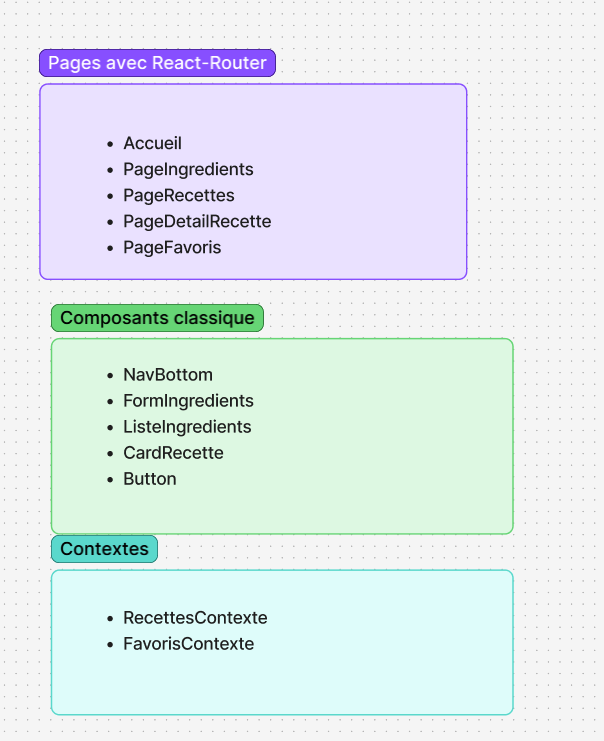
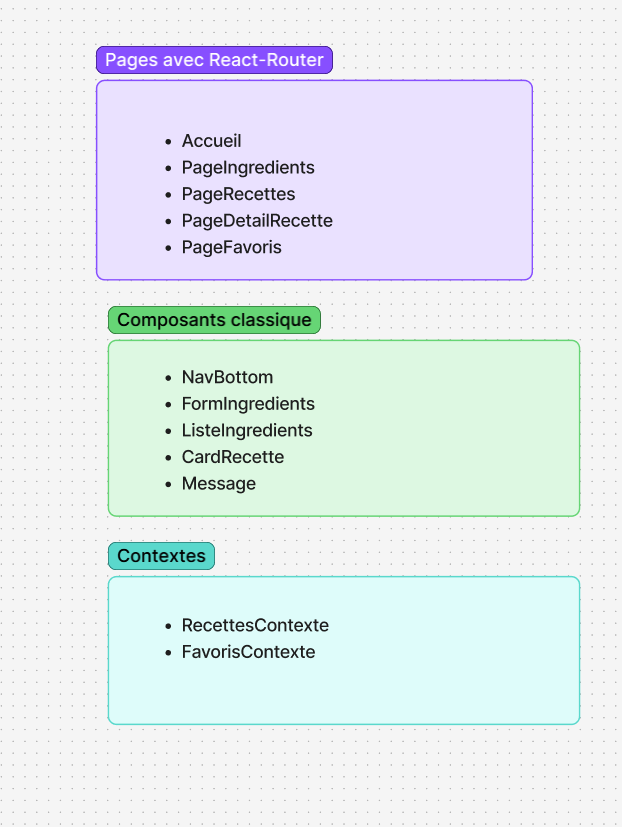
Suppression du composant bouton et ajout du composant message. Création et test ok pour le formulaire et l'ajout à la liste des ingredients

diff --git a/src/components/contexts/RecettesContext.jsx b/src/components/contexts/RecettesContext.jsx
@@ -2,12 +2,14 @@ import { createContext, useState, useEffect, useContext } from "react";
 
 export const RecettesContext = createContext();
 //Composant context gérant les données et la logique liée aux recette. 
-//Le provider contient :  le state qui passera les données du fetch du JSON,
+//Le provider contient :  le state qui passera les données du fetch du JSON, la fonction pour ajouter un ingredient à la liste et une autre pour supprimer 
 
 export default function RecettesProvider({children}){
 
     //Le state pour la liste des recettes
     const [recettes, setRecettes]= useState([]);
+    //celui pour les ingrédient du frigo ajoutés qui serviront à la recherche
+    const [ingredientsFrigo, setIngredientsFrigo] = useState([]);
     
     //hook useEffect avec dépendance vide pour qu'il ne soit utilisé qu'une fois lors du montage (sauf en dev)
     useEffect(()=>{
@@ -15,7 +17,6 @@ export default function RecettesProvider({children}){
         .then(rep=>{return rep.json()})
         .then(recettes=>{
             console.log(recettes);
-            //utilisation du setters pour l'enregistrer dans le state
             setRecettes(recettes);
         })
         .catch(error=>{
@@ -23,15 +24,24 @@ export default function RecettesProvider({children}){
         })
     },[]);
 
+    
+    function ajouterIngredient(ingredient){
+        //ajouter un ingredient à la liste ingredientsFrigo(un ajout possible par ingredient)
+        //param : l'ingredient à ajouter
+        if(!ingredientsFrigo.includes(ingredient)){
+            setIngredientsFrigo([...ingredientsFrigo,ingredient]);
+        }
+    }
+
 
     return(
-        <RecettesContext.Provider value={{recettes}}>
+        <RecettesContext.Provider value={{recettes,ingredientsFrigo, ajouterIngredient}}>
             {children}
         </RecettesContext.Provider>
     )
 };
 
-//hook perso
+//hook perso à transmettre aux composant qui en ont besoin
 export function useRecettes(){
     return useContext(RecettesContext);
 }

diff --git a/src/components/FormIngredients.jsx b/src/components/FormIngredients.jsx
@@ -1,0 +1,45 @@
+import { useState } from "react"
+import { useRecettes } from "./contexts/RecettesContext";
+import Message from "./Message";
+
+export default function FormIngredients(){
+    //Composant contenant le formulaire permettant à l’user d’ajouter un ingrédient présent dans son frigo. L’ingrédient ajouté sera ensuite enregistré dans la liste des ingrédients recherchés
+
+
+    //state de l'ingredient à ajouter
+    const [ingredient, setIngredient] = useState("");
+    //import des values nécessaires depuis le hook Recette
+    const {ingredientsFrigo,ajouterIngredient} =useRecettes();
+    //states nécessaires pour les props de message
+    const [msg, setMsg]= useState("");
+    const [typeMsg, setTypemsg] = useState("");
+
+    
+    function lockSubmit(e){
+        //fonction qui bloque l'envoi du formulaire, l'ajoute l'ingredient à la liste et reset le state d'ingredient
+        //paramétre : l'evenement déclenché par l'écouteur
+        e.preventDefault()
+        //Verif si ingredient déjà ajouté
+        if(ingredientsFrigo.includes(ingredient)){
+            setMsg("l'ingredient :"+ ingredient+" est déjà dans la liste")
+            setTypemsg("echec");
+            return;
+        }
+        ajouterIngredient(ingredient);
+        setMsg("L'ingredient :" +ingredient+ " a été ajouté à la liste")
+        setTypemsg("ok");
+        setIngredient("");
+        
+    }
+    return(
+        <div className="add-ingredients">
+            {msg && (
+                <Message type={typeMsg} msg={msg}/>
+            )}
+            <form action="" onSubmit={lockSubmit}>
+                <input type="text" name="ingredients" id="ingredient" onChange={(e)=>setIngredient(e.target.value)} value={ingredient} placeholder="Un seul ajout par ingredient" />
+                <button type="submit">Ajouter l'ingredient</button>
+            </form>
+        </div>
+    )
+}

diff --git a/src/components/pages/PageRecettes.jsx b/src/components/pages/PageRecettes.jsx
@@ -1,12 +1,29 @@
+import { useRecettes } from "../contexts/RecettesContext";
 import NavBottom from "../NavBottom";
 
 export default function PageRecettes(){
     //Composant retournant la page des recettes trouvées via la recherche filtrée par les ingrédients ajoutés par l'user
     //Utilise le composant CardRecette et NavBottom
 
+    const {recettes} = useRecettes();
+    
     return(
         <div className="recettes-page">
-            <p>test routage vers la page Recettes</p>
+            {recettes.map((recette)=>{
+                return(
+                    <div key={recette.id}>
+                        <p>{recette.nom}</p>
+                        {recette.ingredients.map((ingredient)=>{
+                            return(
+                                <p key={ingredient.nom}>
+                                    {ingredient.illustration}
+                                </p>
+                            )
+                        })}
+                    </div>
+                    
+                )
+            })}
             <NavBottom/>
         </div>
     )

diff --git a/src/components/pages/Accueil.jsx b/src/components/pages/Accueil.jsx
@@ -2,7 +2,7 @@ import { Link } from "react-router";
 
 export default function Accueil(){
 //Composant retournant la page d'accueil avec le frigo et le bouton permettant de démarrer l'ajout des ingrédients pour la recherche
-//Utilise le composant : Button
+
 
 
     return (
@@ -10,7 +10,7 @@ export default function Accueil(){
             <h1 className="primary-title">Frigo Vide</h1>
             <img src="/img/frigo.png" alt="logo de l'application Frigo Vide" />
             <p>Cette application vous aide à mieux manger en utilisant les <span>restes</span> et evitant le <span>gaspillage</span> le plus possible !</p>
-            <Link to="/ingredients"><button>Qu'il y a t'il dans le frigo ?</button></Link>
+            <Link to="/ingredients">Qu'il y a t'il dans le frigo ?</Link>
         </div>
     )
 }

diff --git a/src/components/pages/PageIngredients.jsx b/src/components/pages/PageIngredients.jsx
@@ -1,13 +1,17 @@
+import FormIngredients from "../FormIngredients";
+import ListeIngredients from "../ListeIngredients";
 import NavBottom from "../NavBottom";
 
 export default function PageIngredients(){
     //Composant retournant la page permettant de rajouter/enlever des ingrédients à la liste de recherche filtrée pour les recettes 
-    //Utilise les composants : FormIngredients, ListeIngredients, Button et NavBottom
+    //Utilise les composants : FormIngredients, ListeIngredients,Message et NavBottom
     
 
     return(
         <div className="ingredients-page">
-            <p>test redirection vers la page Ingredients</p>
+           <h2>Ajouter vos ingrédients</h2>
+            <FormIngredients/>
+            <ListeIngredients/>
             <NavBottom/>
         </div>
     )

diff --git a/src/components/ListeIngredients.jsx b/src/components/ListeIngredients.jsx
@@ -1,0 +1,23 @@
+import { useRecettes } from "./contexts/RecettesContext"
+import { useState } from "react";
+
+export default function ListeIngredients(){
+    //Composant chargé d’afficher les ingrédients déjà ajoutés par l’utilisateur. Chaque ingrédient sera affiché dans une liste et pourra être supprimé.
+
+    //Recup de la liste depuis le hook perso Recette
+    const {ingredientsFrigo}= useRecettes();
+
+
+    return(
+        <div className="liste-ingredients">
+            <ul>
+                {ingredientsFrigo.map((ingredient)=>{
+                    return(
+                        <li key={ingredient}>{ingredient}</li>
+                    )
+                })}
+
+            </ul>
+        </div>
+    )
+}

diff --git a/src/components/pages/PageDetailRecette.jsx b/src/components/pages/PageDetailRecette.jsx
@@ -2,7 +2,7 @@ import NavBottom from "../NavBottom";
 
 export default function PageDetailRecette(){
     //Composant retournant les détails de la recette sélectionnée et le bouton pour l'ajouter aux favoris
-    //Utilise les composants : Button et NavBottom
+    //Utilise les composants : CardRecette et NavBottom
 
     return(
         <div className="detail-page">

diff --git a/src/components/Message.jsx b/src/components/Message.jsx
@@ -1,0 +1,10 @@
+export default function Message({type, msg}){
+    //Composant qui permet d'afficher un message pour communiquer avec l'user
+    //Si action reussie  => message affiché en vert
+    //Si action en cours => message affiché en bleu
+    //Si erreur => message affiché en rouge
+
+    return (
+        <p className={type + '-msg'}>{msg}</p>
+    )
+}

diff --git a/src/index.css b/src/index.css
@@ -1,0 +1,7 @@
+.echec-msg{
+    color: red;
+}
+
+.ok-msg{
+    color: green;
+}
